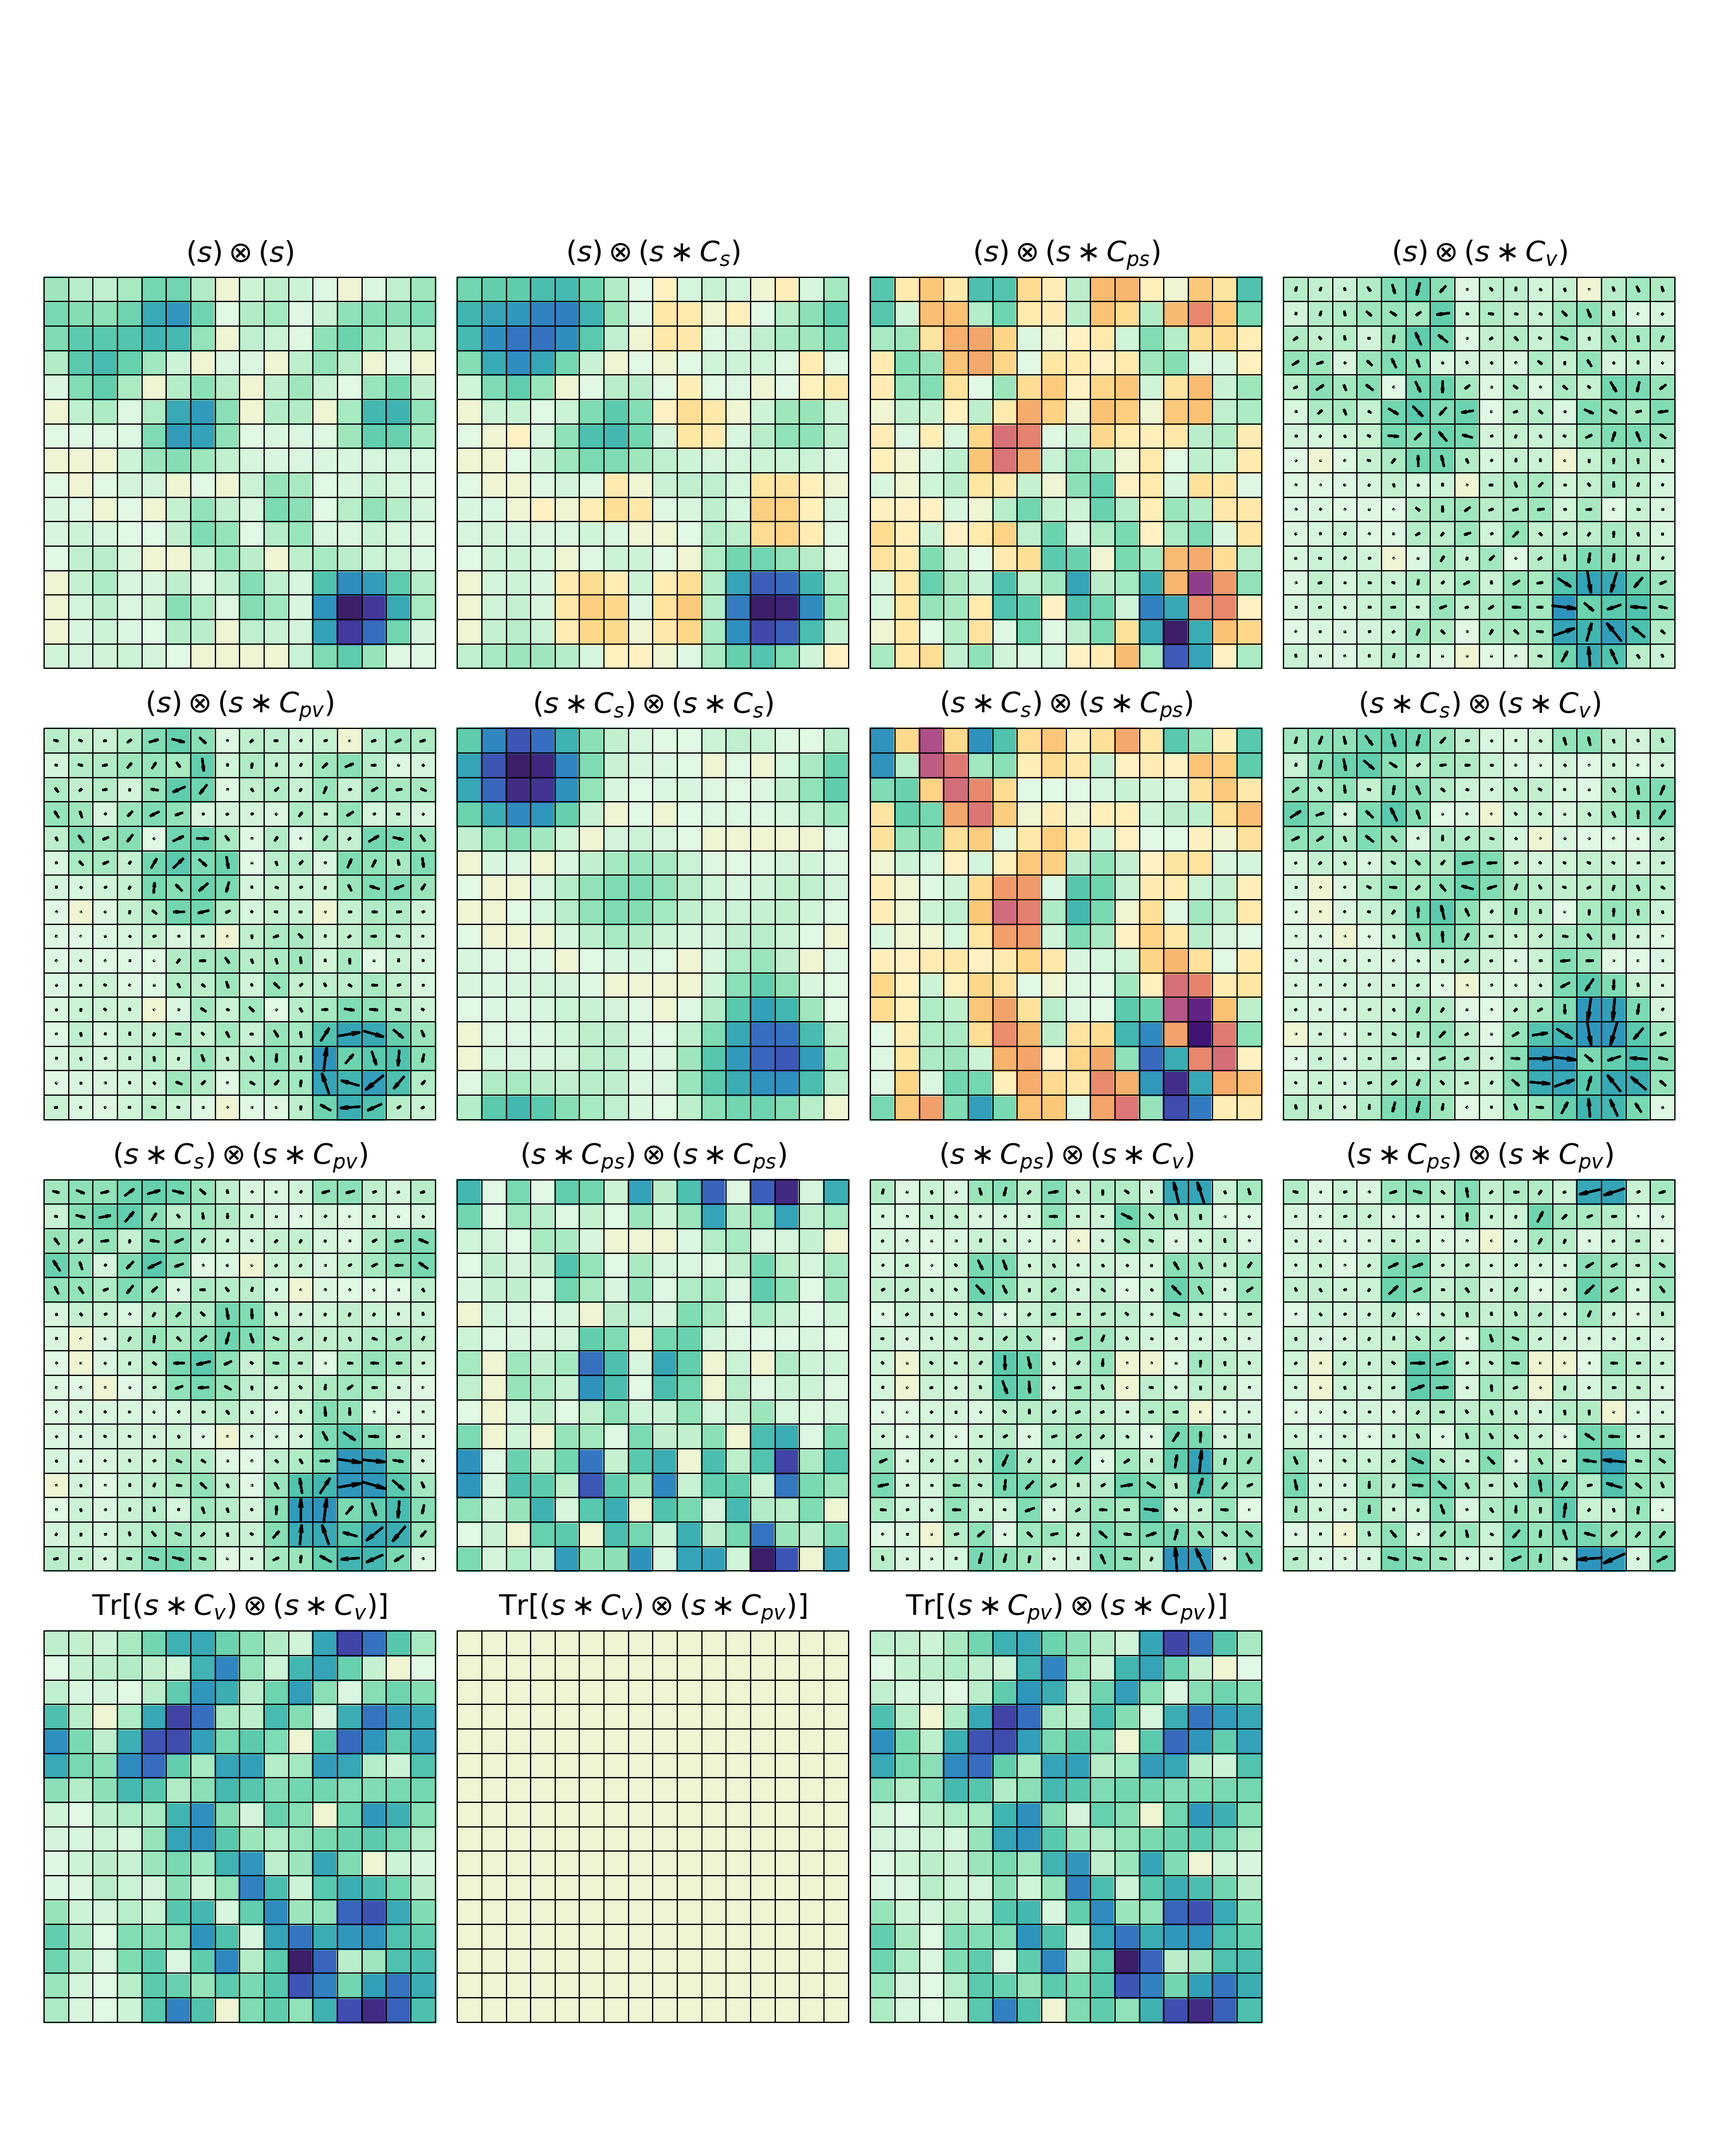
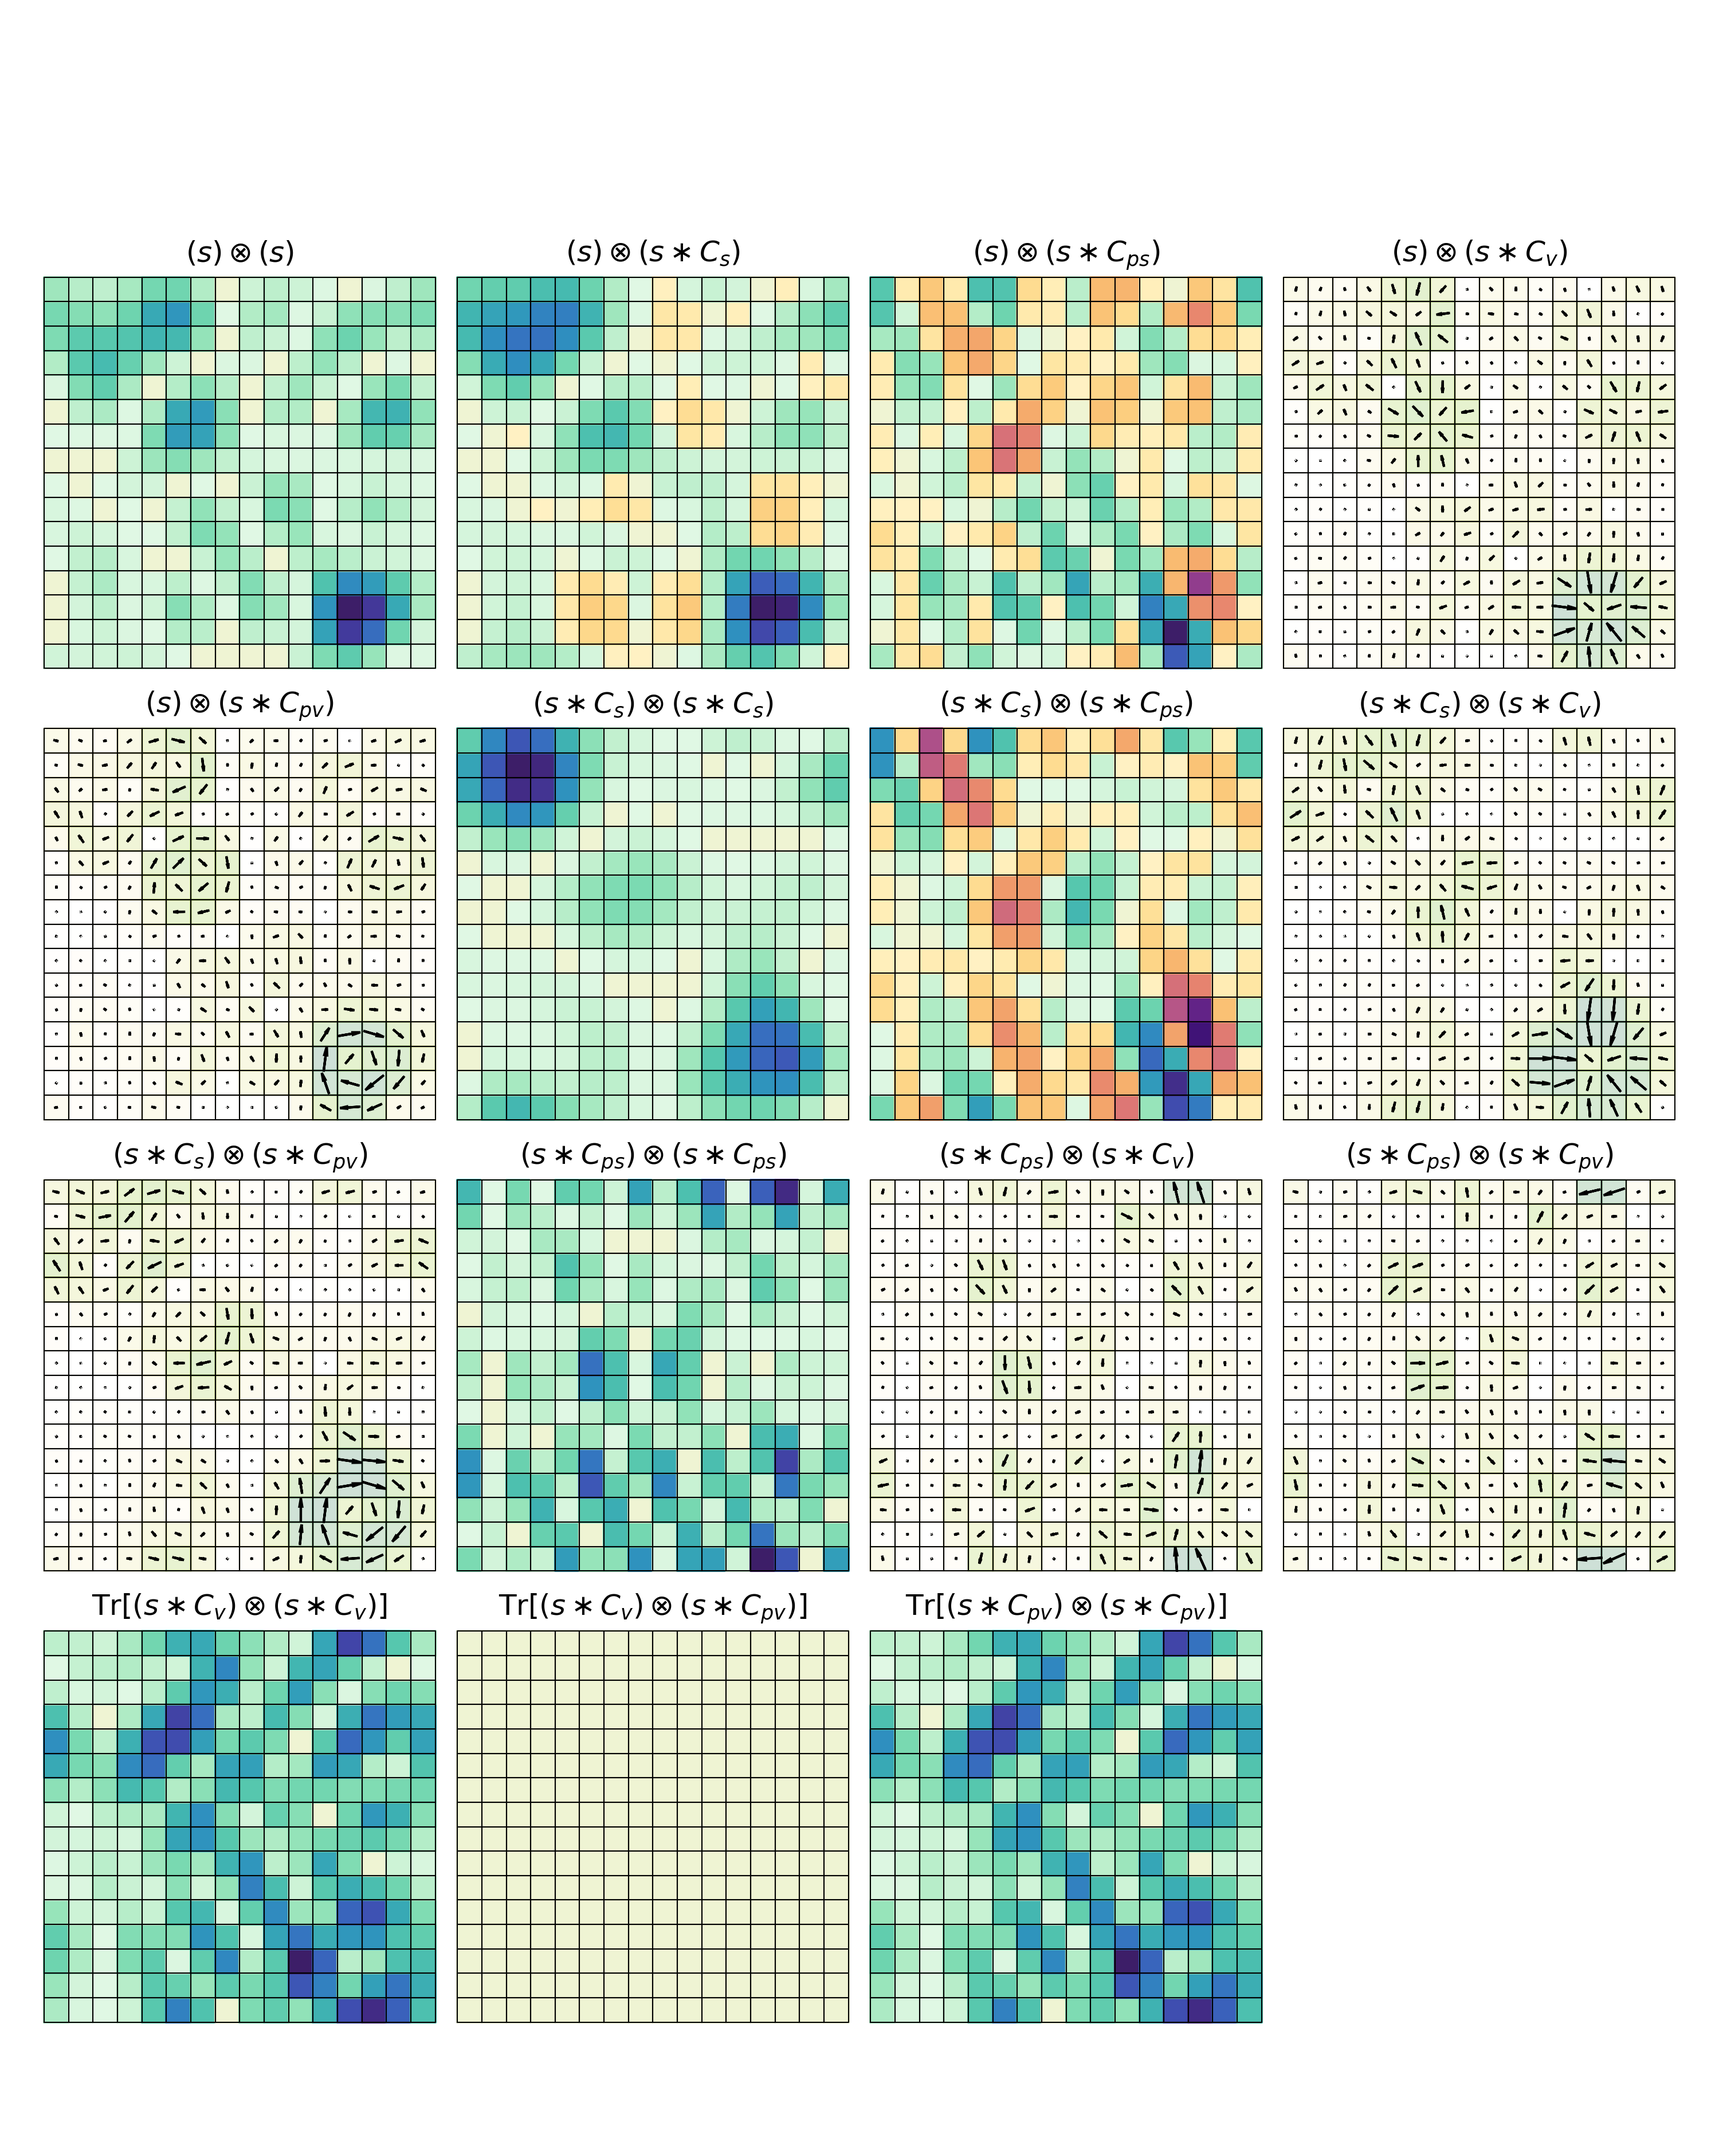
tweak colors

Changed region(s): [[0.496, 0.1248, 0.992, 0.7488], [0.0, 0.312, 0.279, 0.7488]]

diff --git a/notebooks/geometric.py b/notebooks/geometric.py
@@ -289,17 +289,6 @@ class geometric_filter:
 FIGSIZE = (4, 3)
 XOFF, YOFF = 0.15, -0.1
 
-def make_colormap(unph=True):
-    if unph:
-        return cm.get_cmap("cma:unph")
-    else:
-        foo = np.linspace(0., 0.5, 256)
-        cmap = cm.get_cmap("gray_r")
-        colors = [cmap(f) for f in foo]
-        return ListedColormap(colors)
-    return
-cmap = make_colormap()
-
 def setup_plot():
     fig = plt.figure(figsize=FIGSIZE)
     return fig
@@ -328,19 +317,19 @@ def plot_boxes(ax, xs, ys):
                  [y-0.5, y+0.5, y+0.5, y-0.5, y-0.5], "k-", lw=0.5, zorder=10)
     return
 
-def fill_boxes(ax, xs, ys, ws, vmin, vmax, cmap, zorder=-100, colorbar=False):
-    cmx = cm.ScalarMappable(cmap=cmap)
+def fill_boxes(ax, xs, ys, ws, vmin, vmax, cmap, zorder=-100, colorbar=False, alpha=1.):
+    cmx = cm.ScalarMappable(cmap=cm.get_cmap(cmap))
     cmx.set_clim(vmin, vmax)
     cs = cmx.to_rgba(ws)
     if colorbar:
         plt.colorbar(cmx, ax=ax)
     for x, y, c in zip(xs, ys, cs):
         ax.fill_between([x - 0.5, x + 0.5], [y - 0.5, y - 0.5], [y + 0.5, y + 0.5],
-                             color=c, zorder=zorder)
+                             color=c, zorder=zorder, alpha=alpha)
     return
 
 def plot_scalars(ax, M, xs, ys, ws, boxes=True, fill=True, symbols=True,
-                 vmin=-2., vmax=2., cmap=cmap, colorbar=False):
+                 vmin=-2., vmax=2., cmap="cma:unph", colorbar=False):
     if boxes:
         plot_boxes(ax, xs, ys)
     if fill:
@@ -378,11 +367,11 @@ def plot_scalar_filter(filter, title, ax=None):
     return ax
 
 def plot_vectors(ax, xs, ys, ws, boxes=True, fill=True,
-                 vmin=-2., vmax=2., cmap=cmap, scaling=0.33):
+                 vmin=0., vmax=2., cmap="cma:lacerta_r", scaling=0.33):
     if boxes:
         plot_boxes(ax, xs, ys)
     if fill:
-        fill_boxes(ax, xs, ys, np.linalg.norm(ws, axis=-1), vmin, vmax, cmap)
+        fill_boxes(ax, xs, ys, np.linalg.norm(ws, axis=-1), vmin, vmax, cmap, alpha=0.25)
     for x, y, w in zip(xs, ys, ws):
         normw = np.linalg.norm(w)
         if normw > TINY:
@@ -411,7 +400,7 @@ def plot_vector_filter(filter, title, ax=None):
             xs[i], ys[i] = pp
         elif filter.D == 3:
             xs[i], ys[i] = pp[0] + XOFF * pp[2], pp[1] + YOFF * pp[2]
-    plot_vectors(ax, xs, ys, ws, vmin=-3., vmax=3.)
+    plot_vectors(ax, xs, ys, ws, vmin=0., vmax=3.)
     finish_plot(ax, title, filter.pixels(), filter.D)
     return ax
 
